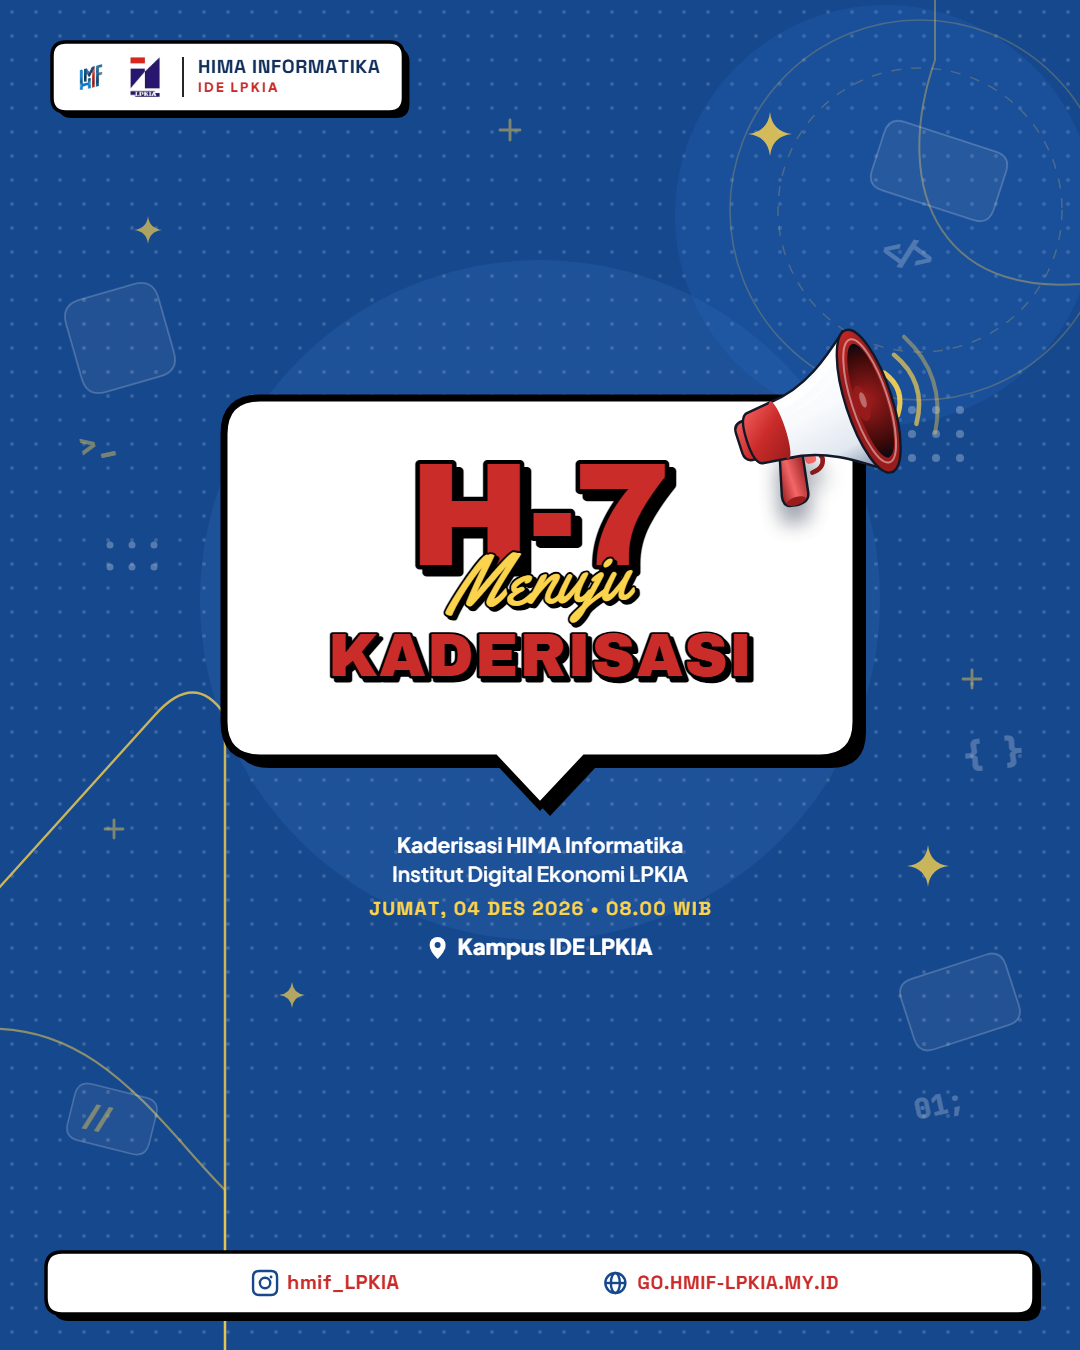
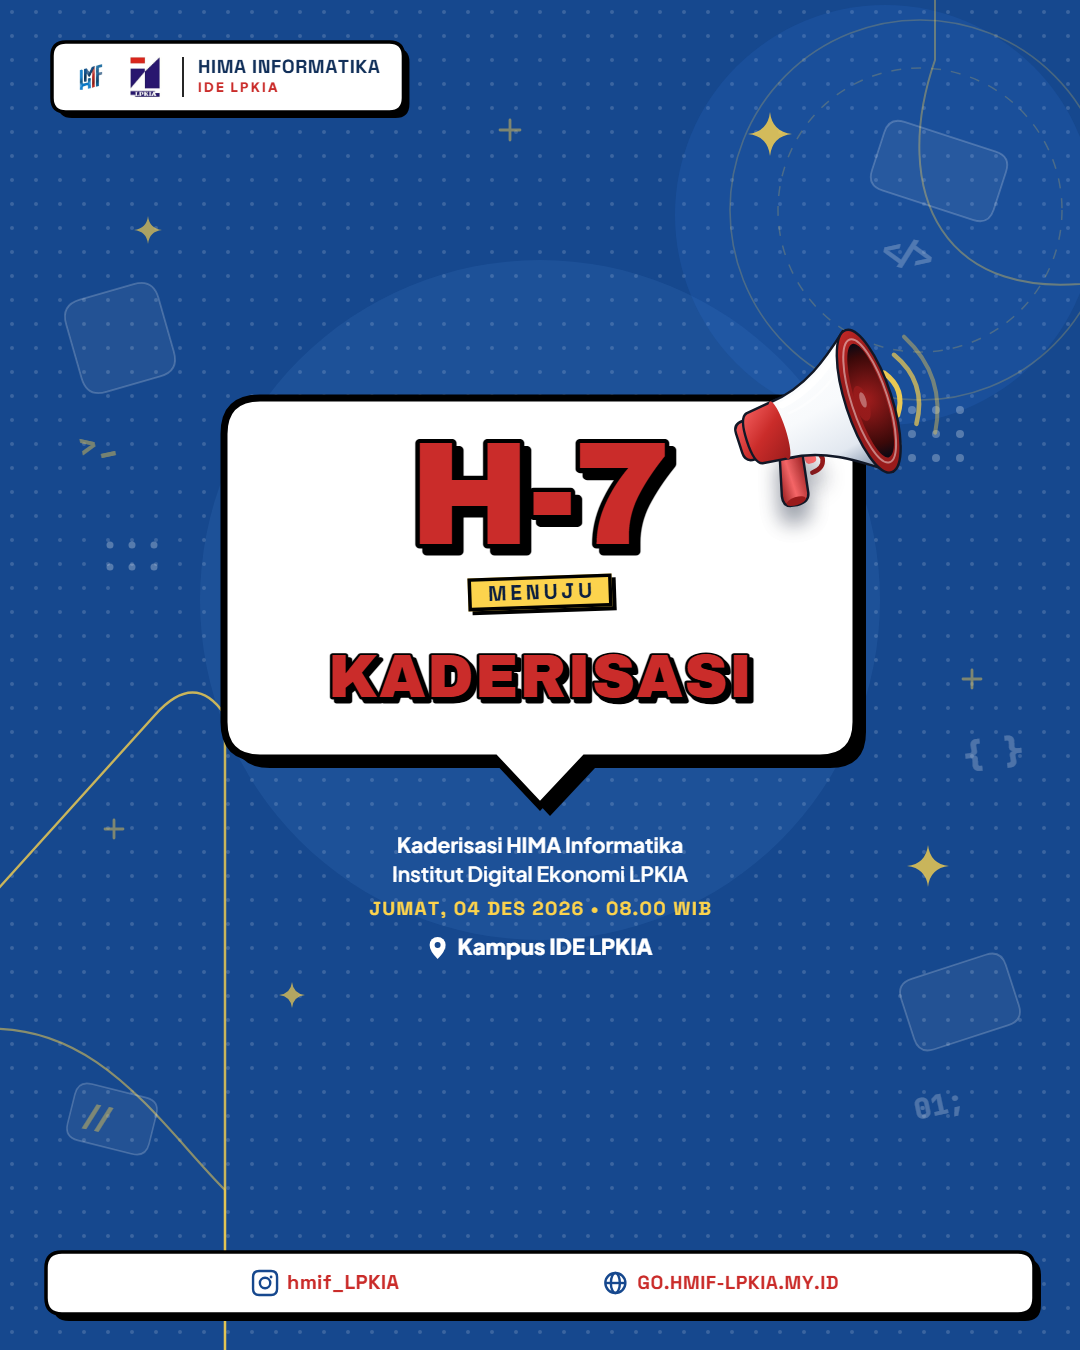
style: replace cursive Menuju with Neubrutalism yellow sticker pill in Layout 3 & 4

Changed region(s): [[0.3056, 0.3111, 0.7028, 0.5289]]

diff --git a/index.html b/index.html
@@ -350,10 +350,29 @@
             text-shadow: 4px 4px 0 #000000;
         }
         .layout-3.style-neubrutalism .l3-script-txt {
-            color: #FCD34D;
-            paint-order: stroke fill;
-            -webkit-text-stroke: 4px #000000;
-            text-shadow: 3px 3px 0 #000000;
+            font-family: 'Space Grotesk', sans-serif;
+            font-weight: 800;
+            text-transform: uppercase;
+            letter-spacing: 0.18em;
+            color: #0B1F40;
+            background: #FCD34D;
+            border: 3.5px solid #000000;
+            box-shadow: 4px 4px 0 #000000;
+            border-radius: 0;
+            padding: 6px 20px;
+            margin: 10px 0 12px 0;
+            transform: rotate(-2deg);
+            -webkit-text-stroke: 0;
+            text-shadow: none;
+            display: inline-block;
+            position: relative;
+            z-index: 2;
+        }
+        .ratio-1-1.layout-3.style-neubrutalism .l3-script-txt {
+            padding: 5px 16px;
+            margin: 7px 0 9px 0;
+            border-width: 3px;
+            box-shadow: 3px 3px 0 #000000;
         }
         .layout-3.style-neubrutalism .l3-cap-main { color: #FFFFFF; }
         .layout-3.style-neubrutalism .l3-cap-date { color: #FCD34D; }
@@ -588,7 +607,8 @@
         .layout-4.style-neubrutalism .l4-wd-1 { background: #CA2C2A; } .layout-4.style-neubrutalism .l4-wd-2 { background: #FCD34D; } .layout-4.style-neubrutalism .l4-wd-3 { background: #FFFFFF; }
         .layout-4.style-neubrutalism .l4-badge { background: #1A467C; color: #FFFFFF; border: 4px solid #000000; box-shadow: 6px 6px 0 #000000; border-radius: 0; }
         .layout-4.style-neubrutalism .l4-hero-txt { color: #CA2C2A; -webkit-text-stroke: 16px #000000; paint-order: stroke fill; text-shadow: 8px 8px 0 #000000; }
-        .layout-4.style-neubrutalism .l4-script-txt { color: #F59E0B; -webkit-text-stroke: 5px #000000; paint-order: stroke fill; text-shadow: 3px 3px 0 #000000; }
+        .layout-4.style-neubrutalism .l4-script-txt { font-family: 'Space Grotesk', sans-serif; font-weight: 800; text-transform: uppercase; letter-spacing: 0.18em; color: #0B1F40; background: #FCD34D; border: 3.5px solid #000000; box-shadow: 4px 4px 0 #000000; border-radius: 0; padding: 6px 22px; margin-top: 12px; margin-bottom: 14px; transform: rotate(-2deg); -webkit-text-stroke: 0; text-shadow: none; display: inline-block; }
+        .ratio-1-1.layout-4.style-neubrutalism .l4-script-txt { padding: 5px 18px; margin-top: 10px; margin-bottom: 11px; border-width: 3px; box-shadow: 3px 3px 0 #000000; }
         .layout-4.style-neubrutalism .l4-stamp { background: #CA2C2A; border: 4px solid #000000; box-shadow: 7px 7px 0 #000000; border-radius: 0; }
         .layout-4.style-neubrutalism .l4-dot-active { background: #CA2C2A; }
         .layout-4.style-neubrutalism .l4-bottom-bar { background: #0B1F40; color: #FFFFFF; border-top: 3.5px solid #000000; }
@@ -2180,9 +2200,12 @@
                 l3HeroEl.style.fontSize = l3M.heroFs + 'px';
             }
             if (l3ScriptEl) {
-                const rawScript = E.isCS ? 'Stay Tuned' : toTitleCase(E.mn || 'Menuju');
+                const isNeu = currentStyle === 'neubrutalism';
+                const rawScript = isNeu
+                    ? (E.isCS ? 'STAY TUNED' : (E.mn || 'MENUJU')).toUpperCase()
+                    : (E.isCS ? 'Stay Tuned' : toTitleCase(E.mn || 'Menuju'));
                 l3ScriptEl.textContent = rawScript;
-                l3ScriptEl.style.fontSize = l3M.scriptFs + 'px';
+                l3ScriptEl.style.fontSize = (isNeu ? l3M.pillFs : l3M.scriptFs) + 'px';
             }
             if (l3TitleEl) {
                 l3TitleEl.textContent = E.title;
@@ -2226,6 +2249,7 @@
 
         function getL4Metrics(E) {
             const r = currentRatio;
+            const isNeu = currentStyle === 'neubrutalism';
             const heroLines = E.isCS ? ['COMING', 'SOON'] : [E.hero];
             const longest = Math.max(1, ...heroLines.map((l) => l.length));
             const sc = r === '9-16' ? 1.08 : (r === '1-1' ? 0.82 : 1);
@@ -2233,8 +2257,10 @@
             return {
                 heroLines,
                 heroFs: Math.round(base * sc),
-                scriptFs: Math.round(70 * sc),
-                script: E.isCS ? '' : toTitleCase(E.mn || 'Menuju'),
+                scriptFs: isNeu ? Math.round(22 * sc) : Math.round(70 * sc),
+                scriptPy: r === '1-1' ? 5 : 6,
+                scriptPx: r === '1-1' ? 18 : 22,
+                script: E.isCS ? '' : (isNeu ? (E.mn || 'MENUJU').toUpperCase() : toTitleCase(E.mn || 'Menuju')),
                 badgeTxt: E.isCS ? E.title : E.cd,
                 stampTxt: E.isCS ? 'STAY TUNED' : E.title,
                 fileName: E.isCS ? 'coming_soon.exe' : 'countdown.exe',
@@ -2268,6 +2294,7 @@
             return {
                 heroFs: Math.round(baseHero * ratioScale),
                 scriptFs: Math.round(baseScript * ratioScale),
+                pillFs: Math.round(21 * ratioScale),
                 titleFs: Math.round(baseTitle * ratioScale)
             };
         }
@@ -3808,7 +3835,7 @@
                     heroStroke: '#000000', heroSW: 9, heroShdOff: 7, heroTrack: -0.02,
                     titleFont: '"Archivo Black", "Space Grotesk", sans-serif', titleWeight: 400, titleCol: '#CA2C2A',
                     titleStroke: '#000000', titleSW: 5, titleShdOff: 4, titleTrack: 0.02,
-                    scriptCol: '#FCD34D', scriptStroke: '#000000', scriptSW: 4, scriptShdOff: 3, scriptShd: 'rgba(0, 0, 0, 1)',
+                    scriptCol: '#0B1F40', scriptPill: { fill: '#FCD34D', border: 3.5, shadow: 4 }, scriptStroke: null, scriptSW: 0, scriptShdOff: 0, scriptShd: null,
                     capFont: '"Plus Jakarta Sans", sans-serif', dateFont: '"Space Grotesk", sans-serif',
                     capCol: '#FFFFFF', dateCol: '#FCD34D', locCol: '#FFFFFF',
                     dockFill: '#FFFFFF', dockText: '#CA2C2A', dockIcon: '#16488E', dockBorder: 3.5, dockBorderCol: '#000000', dockShadow: 7, dockRad: 16,
@@ -4167,12 +4194,15 @@
             }
 
             // Stacked 3-Layer Hero Text Inside Bubble (Theme-Distinct Typography)
+            const isL3Pill = Boolean(L.scriptPill);
             const heroStr = E.isCS ? 'COMING SOON' : E.hero;
-            const scriptStr = E.isCS ? 'Stay Tuned' : toTitleCase(E.mn || 'Menuju');
+            const scriptStr = isL3Pill
+                ? (E.isCS ? 'STAY TUNED' : (E.mn || 'MENUJU').toUpperCase())
+                : (E.isCS ? 'Stay Tuned' : toTitleCase(E.mn || 'Menuju'));
             const m = getL3BubbleMetrics(heroStr, E.title);
-            const heroCenterY = bubY + bDim.bodyH * 0.34;
-            const titleCenterY = bubY + bDim.bodyH * 0.72;
-            const scriptCenterY = bubY + bDim.bodyH * 0.51;
+            const heroCenterY = bubY + bDim.bodyH * (isL3Pill ? 0.28 : 0.34);
+            const titleCenterY = bubY + bDim.bodyH * (isL3Pill ? 0.78 : 0.72);
+            const scriptCenterY = bubY + bDim.bodyH * (isL3Pill ? 0.54 : 0.51);
 
             const drawBubbleWord = (txt, cy, fontSpec, colorSpec, strokeCol, strokeW, shdOff, tracking, glowCol = null, fsPx = 100) => {
                 ctx.save();
@@ -4260,33 +4290,55 @@
 
             ctx.save();
             ctx.translate(W / 2, scriptCenterY);
-            ctx.rotate((-3 * Math.PI) / 180);
-            ctx.font = `400 ${m.scriptFs}px "Yellowtail", cursive`;
-            ctx.textAlign = 'center';
-            ctx.textBaseline = 'middle';
-            ctx.lineJoin = 'round';
-            ctx.lineCap = 'round';
-            if (L.scriptShdOff > 0) {
-                if (L.scriptSW > 0) {
-                    ctx.lineWidth = L.scriptSW;
-                    ctx.strokeStyle = '#000000';
-                    ctx.strokeText(scriptStr, L.scriptShdOff, L.scriptShdOff);
-                }
+            if (isL3Pill) {
+                ctx.rotate((-2 * Math.PI) / 180);
+                const pFont = `800 ${m.pillFs}px "Space Grotesk", sans-serif`;
+                const pTrack = 0.18 * m.pillFs;
+                ctx.font = pFont;
+                const pTxtW = ctx.measureText(scriptStr).width + pTrack * Math.max(0, scriptStr.length - 1);
+                const padX = is11 ? 16 : 20;
+                const padY = is11 ? 5 : 6;
+                const pW = pTxtW + padX * 2;
+                const pH = m.pillFs + padY * 2;
+                const shd = is11 ? 3 : L.scriptPill.shadow;
+                const brd = is11 ? 3 : L.scriptPill.border;
                 ctx.fillStyle = '#000000';
-                ctx.fillText(scriptStr, L.scriptShdOff, L.scriptShdOff);
+                ctx.fillRect(-pW / 2 + shd, -pH / 2 + shd, pW, pH);
+                ctx.fillStyle = L.scriptPill.fill;
+                ctx.fillRect(-pW / 2, -pH / 2, pW, pH);
+                ctx.lineWidth = brd;
+                ctx.strokeStyle = '#000000';
+                ctx.strokeRect(-pW / 2 + brd / 2, -pH / 2 + brd / 2, pW - brd, pH - brd);
+                drawTextTrack(scriptStr, 0, 1, pFont, L.scriptCol, pTrack, 'center');
             } else {
-                ctx.shadowColor = L.scriptShd;
-                ctx.shadowBlur = 12;
-                ctx.shadowOffsetX = 0;
-                ctx.shadowOffsetY = 5;
+                ctx.rotate((-3 * Math.PI) / 180);
+                ctx.font = `400 ${m.scriptFs}px "Yellowtail", cursive`;
+                ctx.textAlign = 'center';
+                ctx.textBaseline = 'middle';
+                ctx.lineJoin = 'round';
+                ctx.lineCap = 'round';
+                if (L.scriptShdOff > 0) {
+                    if (L.scriptSW > 0) {
+                        ctx.lineWidth = L.scriptSW;
+                        ctx.strokeStyle = '#000000';
+                        ctx.strokeText(scriptStr, L.scriptShdOff, L.scriptShdOff);
+                    }
+                    ctx.fillStyle = '#000000';
+                    ctx.fillText(scriptStr, L.scriptShdOff, L.scriptShdOff);
+                } else {
+                    ctx.shadowColor = L.scriptShd;
+                    ctx.shadowBlur = 12;
+                    ctx.shadowOffsetX = 0;
+                    ctx.shadowOffsetY = 5;
+                }
+                if (L.scriptStroke && L.scriptSW > 0) {
+                    ctx.lineWidth = L.scriptSW;
+                    ctx.strokeStyle = L.scriptStroke;
+                    ctx.strokeText(scriptStr, 0, 0);
+                }
+                ctx.fillStyle = L.scriptCol;
+                ctx.fillText(scriptStr, 0, 0);
             }
-            if (L.scriptStroke && L.scriptSW > 0) {
-                ctx.lineWidth = L.scriptSW;
-                ctx.strokeStyle = L.scriptStroke;
-                ctx.strokeText(scriptStr, 0, 0);
-            }
-            ctx.fillStyle = L.scriptCol;
-            ctx.fillText(scriptStr, 0, 0);
             ctx.restore();
 
             // Upgraded 3D Sculpted Studio Megaphone + Sound Waves (Theme-Aware Red/Blue)
@@ -4595,7 +4647,7 @@
                     tbFill: '#1A467C', tbText: '#FFFFFF', tbBorder: 3.5, tbBorderCol: '#000000', wd: ['#CA2C2A', '#FCD34D', '#FFFFFF'], wdBorder: 2, wdRad: 0,
                     badgeFam: '"Silkscreen", monospace', badgeTrack: 0.10, badgeFill: '#1A467C', badgeText: '#FFFFFF', badgeBorder: 4, badgeBorderCol: '#000000', badgeShadow: 6, badgeRad: 0, badgeSoft: null,
                     heroFam: '"Archivo Black", "Space Grotesk", sans-serif', heroW: 400, heroFill: '#CA2C2A', heroStroke: '#000000', heroSW: 16, heroShd: { off: 8, col: '#000000' }, heroGlow: null,
-                    scriptFill: '#F59E0B', scriptStroke: '#000000', scriptSW: 5, scriptShd: { off: 3, col: '#000000' }, scriptGlow: null,
+                    scriptFill: '#0B1F40', scriptPill: { fill: '#FCD34D', border: 3.5, shadow: 4 }, scriptStroke: null, scriptSW: 0, scriptShd: null, scriptGlow: null,
                     stFam: '"Space Grotesk", sans-serif', stFill: '#CA2C2A', stBorder: 4, stBorderCol: '#000000', stShadow: 7, stRad: 0, stSoft: null,
                     dotCol: '#CA2C2A', barFill: '#0B1F40', barText: '#FFFFFF', barIcon: '#FCD34D', barBorder: '#000000',
                     mega: { hi: '#FF6B6B', mid: '#CA2C2A', dark: '#991B1B', deep: '#3B0909', edge: '#000000', ew: 2.4, wave: '#FCD34D' }
@@ -4894,9 +4946,13 @@
             const lineH = Math.round(M.heroFs * 0.9);
             const heroH = lineH * M.heroLines.length;
             const stH = M.stFs + M.stPy * 2;
-            const scriptNet = E.isCS ? 10 : (M.scriptFs - 72);
+            const isL4Pill = Boolean(L.scriptPill);
+            const scPillH = M.scriptFs + M.scriptPy * 2;
+            const pillTopGap = is11 ? 10 : 12;
+            const pillBotGap = is11 ? 11 : 14;
+            const scriptNet = E.isCS ? 10 : (isL4Pill ? (pillTopGap + scPillH + pillBotGap) : (M.scriptFs - 72));
             const totalH = badgeH + 14 + heroH + scriptNet + stH;
-            const y0 = bodyTop + (bodyH - totalH) / 2 - 6;
+            const y0 = bodyTop + (bodyH - totalH) / 2 - (isL4Pill ? 2 : 6);
             const heroTop = y0 + badgeH + 14;
             const stampTop = heroTop + heroH + scriptNet;
 
@@ -4922,15 +4978,30 @@
                 });
             });
 
-            // Script overlap (hanya mode countdown)
+            // Script / Sticker Pill (hanya mode countdown)
             if (!E.isCS && M.script) {
                 ctx.save();
-                ctx.translate(mcx, heroTop + heroH - 60 + M.scriptFs / 2);
-                ctx.rotate((-4 * Math.PI) / 180);
-                drawWord(M.script, 0, 0, {
-                    font: `400 ${M.scriptFs}px "Yellowtail", cursive`, track: 0, fill: L.scriptFill, stroke: L.scriptStroke,
-                    sw: L.scriptSW, shd: L.scriptShd, glow: L.scriptGlow, fs: M.scriptFs
-                });
+                if (isL4Pill) {
+                    const pFont = `800 ${M.scriptFs}px "Space Grotesk", sans-serif`;
+                    const pTrack = 0.18 * M.scriptFs;
+                    ctx.font = pFont;
+                    const pTxtW = ctx.measureText(M.script).width + pTrack * Math.max(0, M.script.length - 1);
+                    const pW = pTxtW + M.scriptPx * 2;
+                    ctx.translate(mcx, heroTop + heroH + pillTopGap + scPillH / 2);
+                    ctx.rotate((-2 * Math.PI) / 180);
+                    drawBox(-pW / 2, -scPillH / 2, pW, scPillH, {
+                        fill: L.scriptPill.fill, border: is11 ? 3 : L.scriptPill.border, borderCol: '#000000',
+                        shadow: is11 ? 3 : L.scriptPill.shadow, radius: 0, soft: null, blur: 0, sy: 0
+                    });
+                    drawTextTrack(M.script, 0, 1, pFont, L.scriptFill, pTrack, 'center');
+                } else {
+                    ctx.translate(mcx, heroTop + heroH - 60 + M.scriptFs / 2);
+                    ctx.rotate((-4 * Math.PI) / 180);
+                    drawWord(M.script, 0, 0, {
+                        font: `400 ${M.scriptFs}px "Yellowtail", cursive`, track: 0, fill: L.scriptFill, stroke: L.scriptStroke,
+                        sw: L.scriptSW, shd: L.scriptShd, glow: L.scriptGlow, fs: M.scriptFs
+                    });
+                }
                 ctx.restore();
             }
 
